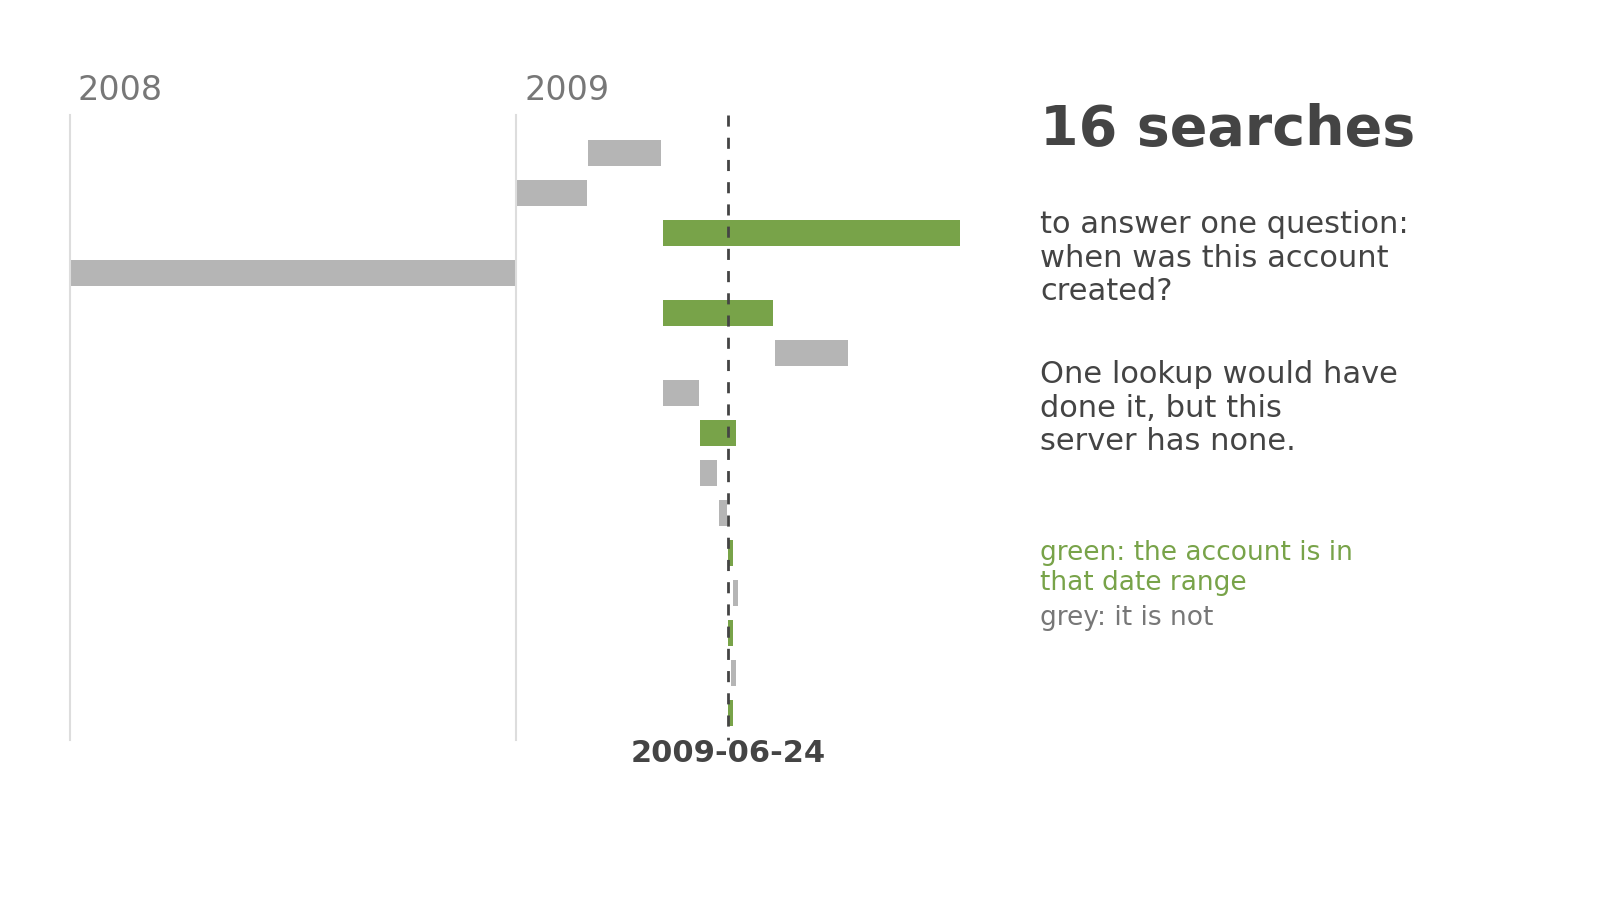
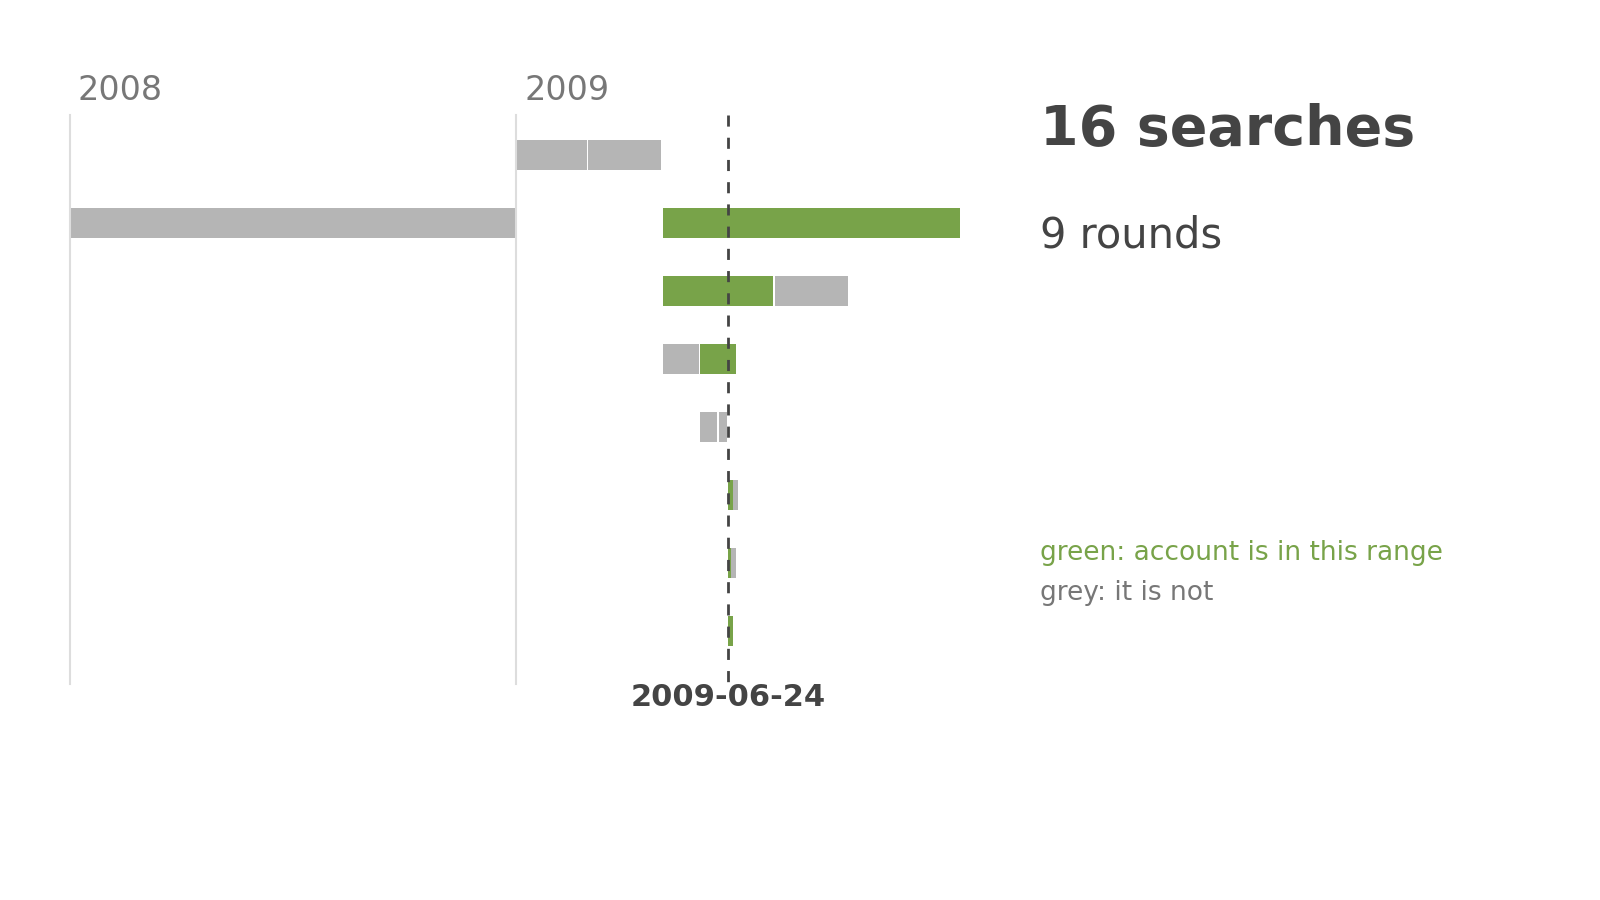
improving findings

diff --git a/experiments/github-tool-abstraction/figures/make_figures.py b/experiments/github-tool-abstraction/figures/make_figures.py
@@ -32,6 +32,7 @@ MODELS = ["haiku", "sonnet", "opus"]
 def load_run(path):
     calls, results, answer, cost, ok = [], {}, "", 0.0, False
     order = []
+    msg_of = {}  # tool_use id -> id of the assistant message that issued it (calls in one message run in parallel)
     for line in open(path):
         try:
             e = json.loads(line)
@@ -47,6 +48,7 @@ def load_run(path):
                     name = b.get("name", "?").split("__", 2)[-1]
                     calls.append(name)
                     order.append((b["id"], name, b.get("input") or {}))
+                    msg_of[b["id"]] = m.get("id")
         elif e.get("type") == "user":
             for b in content:
                 if b.get("type") == "tool_result":
@@ -56,7 +58,7 @@ def load_run(path):
             cost = e.get("total_cost_usd") or 0.0
             hits = re.findall(r"^ANSWER:\s*(.+)$", (e.get("result") or ""), re.M)
             answer = hits[-1].strip() if hits else ""
-    return dict(calls=calls, answer=answer, cost=cost, ok=ok, order=order, results=results)
+    return dict(calls=calls, answer=answer, cost=cost, ok=ok, order=order, results=results, msg_of=msg_of)
 
 
 def load_all():
@@ -222,20 +224,25 @@ def fig_price(data):
 # ----------------------------------------------- 5. the binary search -------
 def fig_binary(data):
     run = data[("github", "sonnet", "task-01")][0]
-    rows = []
+    # One row per round: searches issued in the same assistant message ran in parallel,
+    # so they share a row. Reading the rows top to bottom is the real sequence.
+    rounds, n_all, n_rounds = {}, 0, set()
     for tid, name, inp in run["order"]:
         if name != "search_users":
             continue
+        n_all += 1
+        n_rounds.add(run["msg_of"][tid])
         m = re.search(r"created:(\d{4}-\d{2}-\d{2})\.\.(\d{4}-\d{2}-\d{2})", str(inp.get("query", "")))
         if not m:
             continue
         res = run["results"].get(tid, ("", False))[0]
         hit = '"total_count":1' in res.replace(" ", "")
-        rows.append((dt.date.fromisoformat(m.group(1)), dt.date.fromisoformat(m.group(2)), hit))
-    n_all = sum(1 for _, nme, _ in run["order"] if nme == "search_users")
+        rounds.setdefault(run["msg_of"][tid], []).append(
+            (dt.date.fromisoformat(m.group(1)), dt.date.fromisoformat(m.group(2)), hit))
+    rows = list(rounds.values())
     d0, d1 = dt.date(2008, 1, 1), dt.date(2009, 12, 31)
     fig, ax = canvas()
-    left, right, top, step = 70, 960, 140, 40
+    left, right, top, step = 70, 960, 140, 68
 
     def px(d):
         return left + (d - d0).days / (d1 - d0).days * (right - left)
@@ -246,16 +253,16 @@ def fig_binary(data):
         ax.text(x + 8, top - 40, str(yr), fontsize=24, color="#777777")
     tx = px(dt.date(2009, 6, 24))
     ax.plot([tx, tx], [top - 25, top + step * len(rows)], color=DARK, lw=2, ls=(0, (4, 4)))
-    for i, (a, b, hit) in enumerate(rows):
+    for i, rnd in enumerate(rows):
         y = top + i * step
-        w = max(px(b) - px(a), 5)
-        ax.add_patch(Rectangle((px(a), y), w, 26, color=GREEN if hit else GREY, lw=0))
+        for a, b, hit in rnd:
+            w = max(px(b) - px(a), 5)
+            ax.add_patch(Rectangle((px(a), y), w, 30, color=GREEN if hit else GREY, lw=0))
     tx0 = 1040
     ax.text(tx0, top + 5, "%d searches" % n_all, fontsize=40, fontweight="bold", color=DARK)
-    ax.text(tx0, top + 70, "to answer one question:\nwhen was this account\ncreated?", fontsize=22, color=DARK, va="top")
-    ax.text(tx0, top + 220, "One lookup would have\ndone it, but this\nserver has none.", fontsize=22, color=DARK, va="top")
-    ax.text(tx0, top + 400, "green: the account is in\nthat date range", fontsize=19, color=GREEN, va="top")
-    ax.text(tx0, top + 465, "grey: it is not", fontsize=19, color="#777777", va="top")
+    ax.text(tx0, top + 75, "%d rounds" % len(n_rounds), fontsize=30, color=DARK, va="top")
+    ax.text(tx0, top + 400, "green: account is in this range", fontsize=19, color=GREEN, va="top")
+    ax.text(tx0, top + 440, "grey: it is not", fontsize=19, color="#777777", va="top")
     ax.text(tx, top + step * len(rows) + 22, "2009-06-24", ha="center", fontsize=22, fontweight="bold", color=DARK)
     save(fig, "binary-search.png")
 

diff --git a/experiments/github-tool-abstraction/FINDINGS.md b/experiments/github-tool-abstraction/FINDINGS.md
@@ -80,10 +80,17 @@ different: what the model sees, or who decides the sequence of steps.
 **Partly observed.** GitHub's server has far fewer tools and was cheaper and
 steadier on the longer task (2 or 3 distinct paths, 6 to 8 calls, on every
 model). It comes for free. It is not necessarily opinionated the way you would
-want: it has no way to look up a user by name, and its user search does not
-return the creation date. On the short task the models found the date anyway by
-a binary search over date ranges, using user search with a creation-date
-filter, in 12 to 41 calls instead of one. Haiku got two of five wrong there,
+want. Example from the short task: the question needs the date an account was
+created. That information is in the OpenAPI description (`GET /users/{username}`
+returns `created_at`), but none of the server's tools return it (server
+v2.0.2, image built 2026-10-08; its `search_users` tool declares no output at
+all). The user search returns login, id and links, no date. It has a query language though,
+with a `created:` filter. So the models asked "was this account created
+between these two dates?", got a yes or no (a count of 1 or 0), and narrowed
+the range until one day was left. That took 12 to 41 calls instead of one. They
+usually sent two searches at once (Sonnet, first run: 16 searches in 9 rounds).
+An account has only one creation date, so one search of such a pair was often
+known in advance to come back empty. Haiku got two of five wrong there,
 the only wrong answers in the whole grid. Tool count may not be the cause of
 the cost difference, because the curated server also differs in descriptions
 and in how it shapes its responses.
